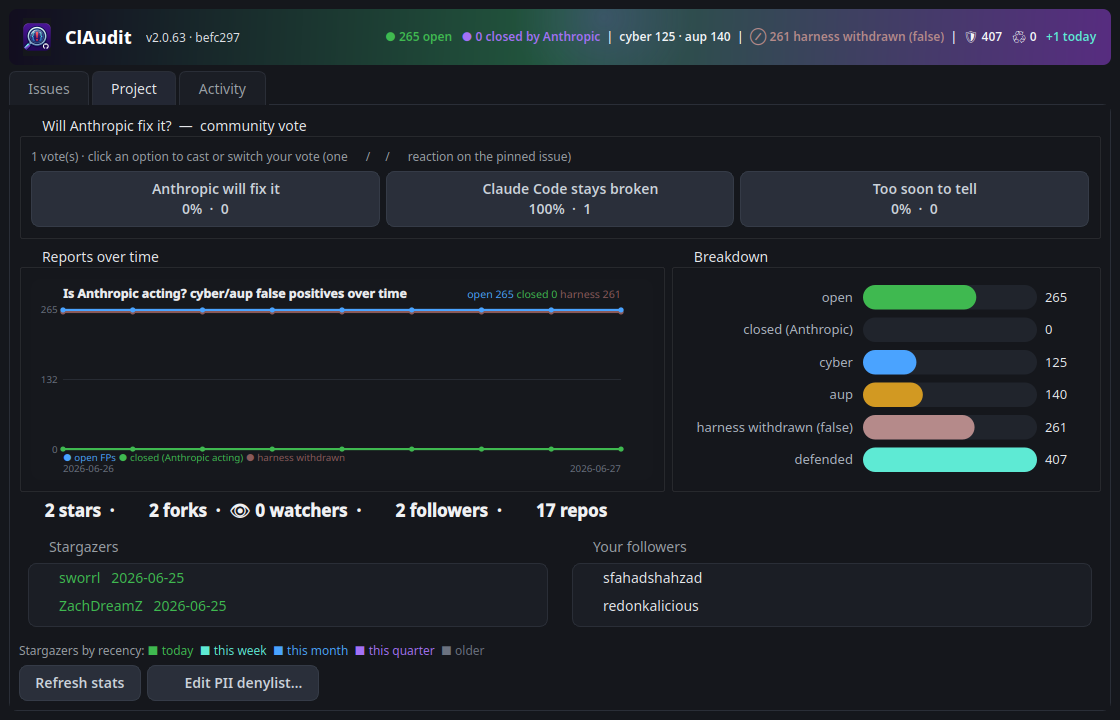
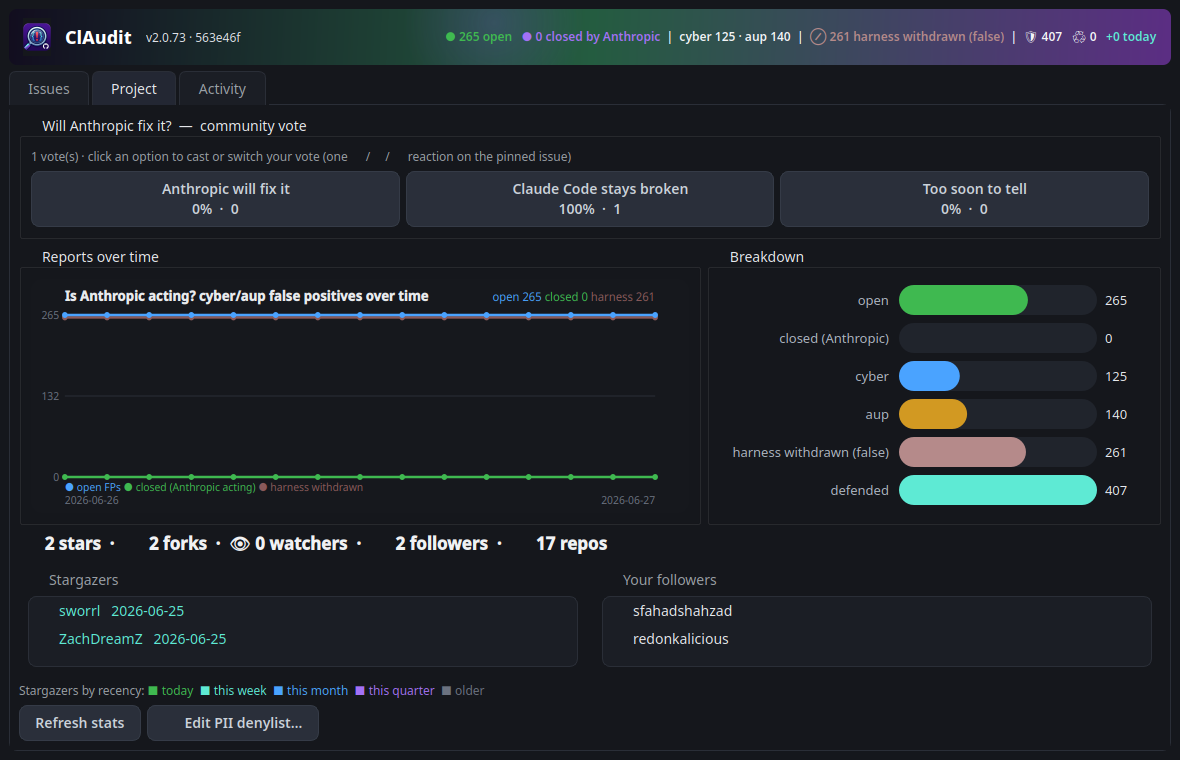
README: refresh all three screenshots on v2.0.73 with live data (chain gutter, lit chain, honest stats)

diff --git a/claudit_scan.py b/claudit_scan.py
@@ -51,7 +51,7 @@ STATE_FILE = os.path.join(STATE_DIR, "filed.json")
 ERROR_LOG = os.path.join(STATE_DIR, "error-log.jsonl")
 LOCK_FILE = os.path.join(STATE_DIR, "watcher.lock")
 ISSUES_DB = os.path.join(STATE_DIR, "issues.jsonl")   # local record of every filed issue
-__version__ = "2.0.73"
+__version__ = "2.0.74"
 DEFAULT_REPO = "anthropics/claude-code"
 REPORT_HARNESS = False   # harness (auto-mode-classifier) denials are LOG-ONLY by default.
                          # They are local permission decisions, not server-side API false positives,

diff --git a/README.md b/README.md
@@ -8,7 +8,7 @@
 
 [![License: GPL v3](https://img.shields.io/badge/License-GPLv3-blue.svg)](LICENSE)
 [![CI](https://github.com/sworrl/ClAudit/actions/workflows/ci.yml/badge.svg)](https://github.com/sworrl/ClAudit/actions/workflows/ci.yml)
-![Version](https://img.shields.io/badge/version-2.0.73-brightgreen)
+![Version](https://img.shields.io/badge/version-2.0.74-brightgreen)
 ![Python](https://img.shields.io/badge/python-3.9%2B-blue)
 ![Platforms](https://img.shields.io/badge/platforms-Linux%20%7C%20macOS%20%7C%20Windows-lightgrey)
 [![Open false-positive reports](https://img.shields.io/endpoint?url=https://sworrl.github.io/ClAudit/counter.json)](https://github.com/anthropics/claude-code/issues?q=is%3Aissue+is%3Aopen+%22Filed+automatically+by+ClAudit%22)